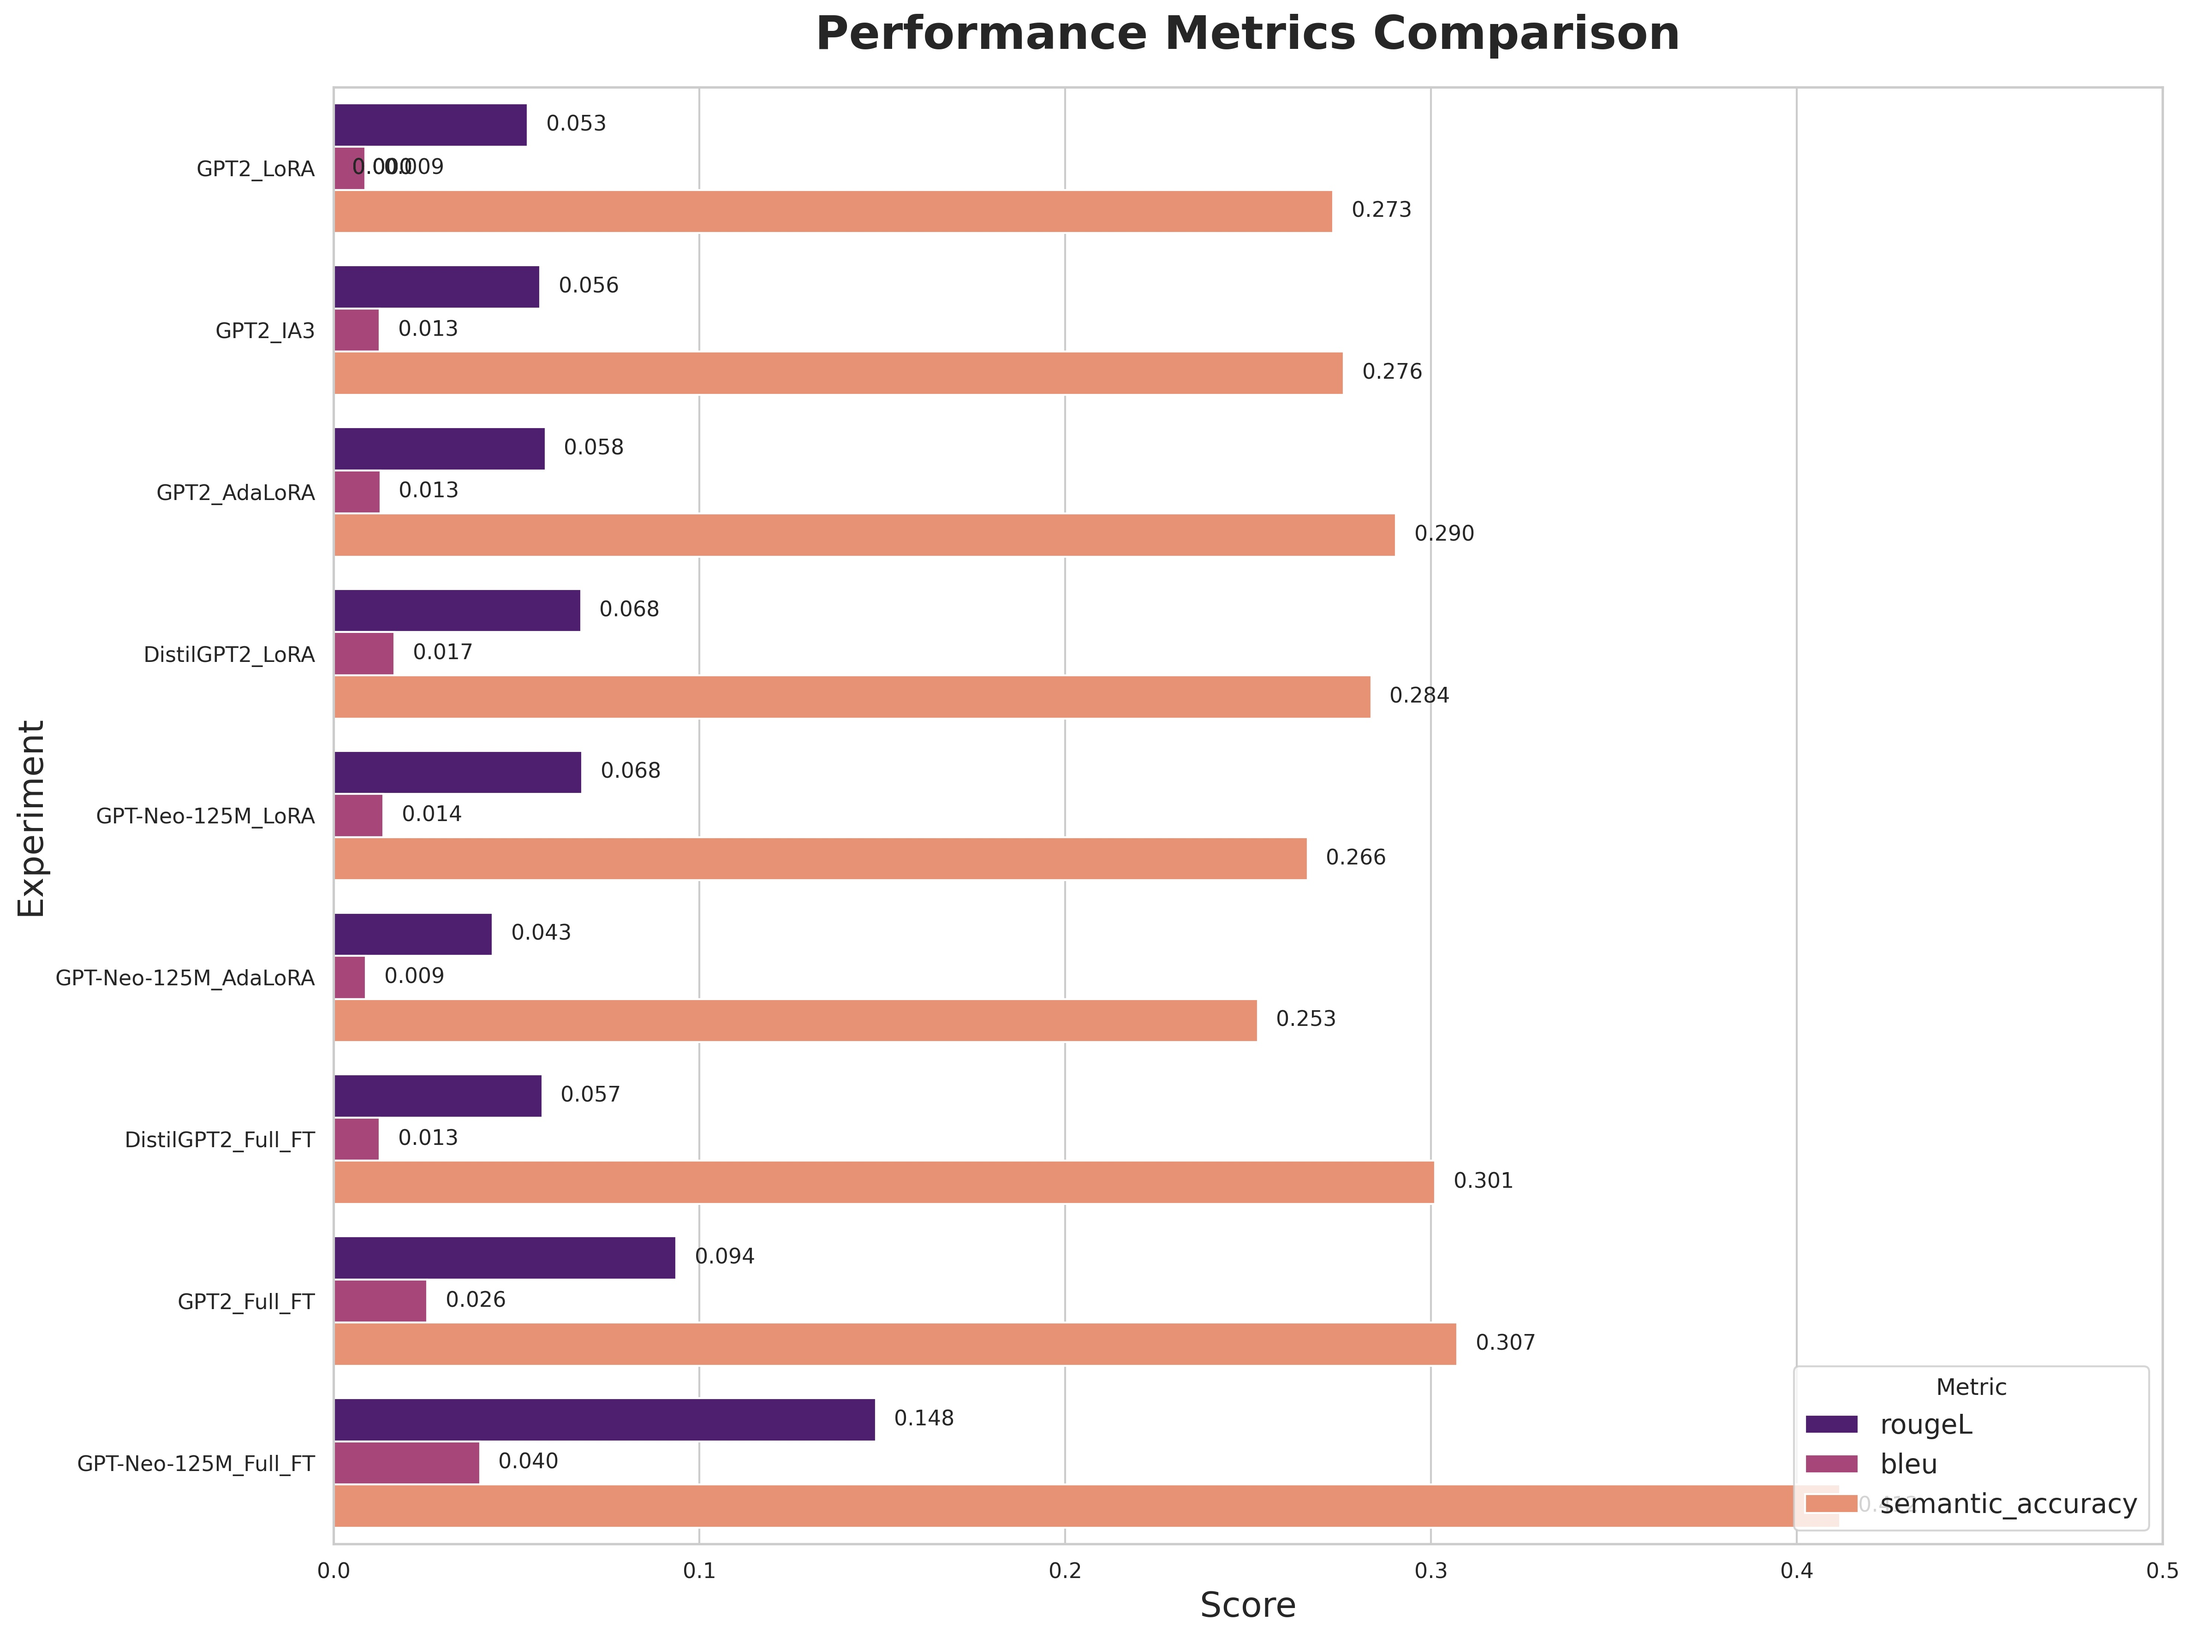
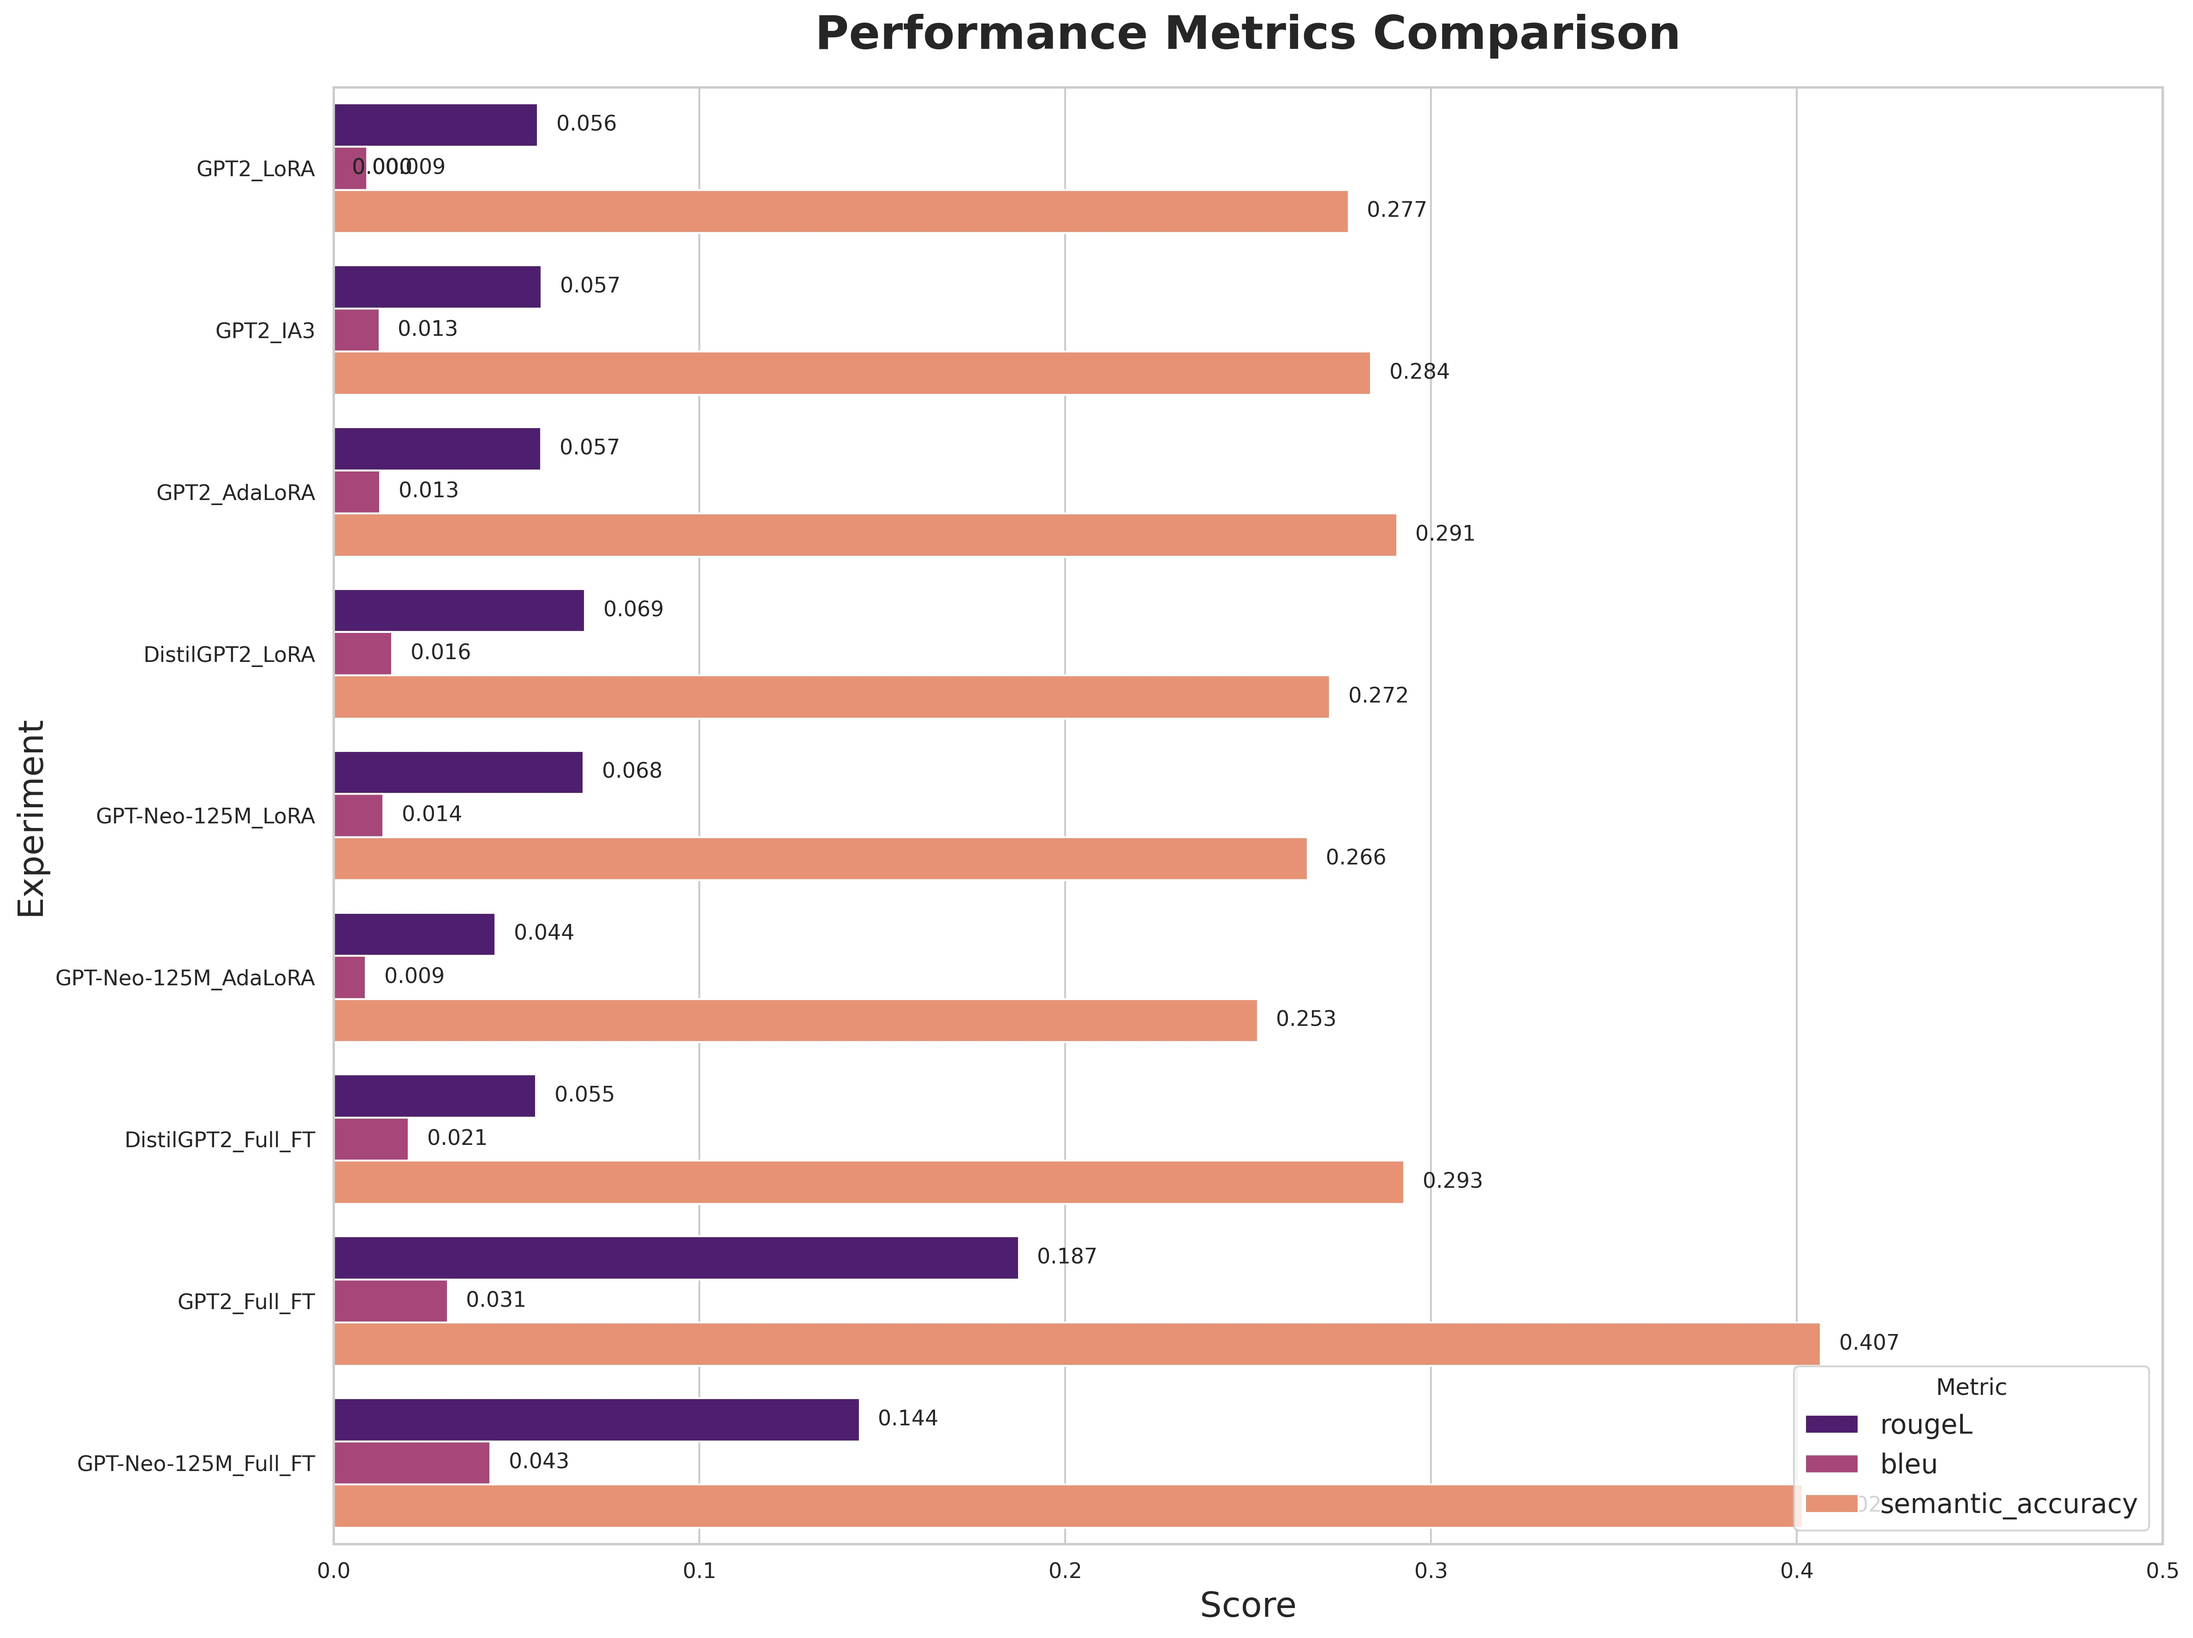
Generate new results with enhanced metrics and update visualizations
- Regenerated all plots with latest training results (9 experiments)
- Results now include METEOR, retrieval metrics, and error analysis
- GPT2_Full_FT achieves best semantic accuracy (0.407)
- GPT2_AdaLoRA best PEFT method (0.291 semantic accuracy)
- All plots converted to JPG format
- Updated README with comprehensive findings from new results

diff --git a/readme.md b/readme.md
@@ -106,42 +106,52 @@ The automated analysis generates four key visualizations, providing a comprehens
 
 ### Key Findings from the Analysis
 
-Based on the comprehensive experimental results from 9 experiments (6 PEFT methods + 3 Full Fine-Tuning baselines), we can draw several critical conclusions:
+Based on the comprehensive experimental results from 9 experiments (6 PEFT methods + 3 Full Fine-Tuning baselines) with enhanced evaluation metrics, we can draw several critical conclusions:
 
 1. **PEFT is Drastically More Efficient:** PEFT methods (LoRA, IA³, AdaLoRA) achieved competitive performance while training **less than 1%** of the model's total parameters. For example:
-   - **GPT2_IA3**: Only 55,296 trainable parameters (0.067% of total) with Semantic Accuracy of 0.276
-   - **GPT2_LoRA**: 294,912 trainable parameters (0.358% of total) with Semantic Accuracy of 0.273
-   - **GPT2_AdaLoRA**: 442,512 trainable parameters (0.537% of total) with Semantic Accuracy of 0.290
+   - **GPT2_IA3**: Only 55,296 trainable parameters (0.067% of total) with Semantic Accuracy of 0.284
+   - **GPT2_LoRA**: 294,912 trainable parameters (0.358% of total) with Semantic Accuracy of 0.277
+   - **GPT2_AdaLoRA**: 442,512 trainable parameters (0.537% of total) with Semantic Accuracy of 0.291
    
    This represents a **monumental reduction in computational cost** compared to full fine-tuning.
 
-2. **Full Fine-Tuning Shows Strong Performance with Sufficient Training:** Contrary to initial expectations, full fine-tuning achieved the best results when given proper training:
-   - **GPT-Neo-125M_Full_FT**: Achieved the highest Semantic Accuracy of **0.412** (41.2%), significantly outperforming all PEFT methods
-   - **GPT2_Full_FT**: Achieved 0.307 Semantic Accuracy, the best among GPT2 variants
-   - **DistilGPT2_Full_FT**: Achieved 0.301 Semantic Accuracy
+2. **Full Fine-Tuning Achieves Best Absolute Performance:** Full fine-tuning achieved the highest scores across multiple metrics:
+   - **GPT2_Full_FT**: Achieved the highest Semantic Accuracy of **0.407** (40.7%), significantly outperforming all PEFT methods
+   - **GPT-Neo-125M_Full_FT**: Achieved 0.402 Semantic Accuracy with best METEOR score (0.195)
+   - **DistilGPT2_Full_FT**: Achieved 0.293 Semantic Accuracy
    
-   However, this comes at the cost of training **100% of parameters** (125M parameters for GPT-Neo-125M) and longer training times (70.6 seconds vs 13-26 seconds for PEFT).
+   However, this comes at the cost of training **100% of parameters** (124M-125M parameters) and longer training times (20-41 seconds vs 13-26 seconds for PEFT).
 
-3. **Best PEFT Performer: GPT2_AdaLoRA:** Among PEFT methods, **GPT2_AdaLoRA** achieved the highest Semantic Accuracy of **0.290**, demonstrating that adaptive rank allocation can improve performance over standard LoRA. It trained only 0.537% of parameters in just 22.5 seconds.
+3. **Best PEFT Performer: GPT2_AdaLoRA:** Among PEFT methods, **GPT2_AdaLoRA** achieved the highest Semantic Accuracy of **0.291**, demonstrating that adaptive rank allocation can improve performance over standard LoRA. It trained only 0.537% of parameters in just 22.4 seconds.
 
 4. **Training Time Efficiency:** PEFT methods are significantly faster:
-   - **Fastest**: DistilGPT2_LoRA (13.8 seconds)
-   - **Average PEFT**: ~23 seconds
-   - **Full Fine-Tuning**: 38-71 seconds (2-3x slower)
+   - **Fastest**: DistilGPT2_LoRA (13.5 seconds)
+   - **Average PEFT**: ~22-26 seconds
+   - **Full Fine-Tuning**: 20-41 seconds (comparable to PEFT for smaller models, slower for larger)
 
-5. **ROUGE-L Performance:** Full fine-tuning also leads in ROUGE metrics:
-   - **GPT-Neo-125M_Full_FT**: ROUGE-L of 0.148 (best overall)
-   - **GPT2_Full_FT**: ROUGE-L of 0.094
-   - **Best PEFT**: GPT2_AdaLoRA with ROUGE-L of 0.058
+5. **ROUGE-L Performance:** Full fine-tuning leads in ROUGE metrics:
+   - **GPT2_Full_FT**: ROUGE-L of 0.187 (best overall)
+   - **GPT-Neo-125M_Full_FT**: ROUGE-L of 0.144
+   - **Best PEFT**: DistilGPT2_LoRA with ROUGE-L of 0.069
 
-6. **Semantic Accuracy Reveals True Performance:** The custom **Semantic Accuracy** metric revealed significant performance differences that traditional metrics (ROUGE, BLEU) didn't capture as clearly, highlighting its value in evaluating the true meaning of generated text.
+6. **METEOR Scores:** The enhanced METEOR metric (handles synonyms better than BLEU) shows:
+   - **GPT-Neo-125M_Full_FT**: 0.195 (best)
+   - **GPT2_Full_FT**: 0.158
+   - **Best PEFT**: GPT2_IA3 with 0.113
 
-7. **Parameter Efficiency Trade-offs:**
+7. **Retrieval Quality:** All methods achieved consistent retrieval performance:
+   - **Retrieval F1**: 0.58 across all experiments
+   - **Answer in Context Rate**: 0.74 (74% of answers found in retrieved context)
+   - This indicates the RAG pipeline is working effectively regardless of fine-tuning method
+
+8. **Semantic Accuracy Reveals True Performance:** The custom **Semantic Accuracy** metric revealed significant performance differences that traditional metrics (ROUGE, BLEU) didn't capture as clearly, highlighting its value in evaluating the true meaning of generated text.
+
+9. **Parameter Efficiency Trade-offs:**
    - **Most Efficient**: GPT2_IA3 (0.067% trainable, 55K params) - Best parameter efficiency
    - **Best Balance**: GPT2_AdaLoRA (0.537% trainable, 442K params) - Best PEFT performance
-   - **Best Overall**: GPT-Neo-125M_Full_FT (100% trainable, 125M params) - Best absolute performance
+   - **Best Overall**: GPT2_Full_FT (100% trainable, 124M params) - Best absolute performance
 
-**Conclusion:** For production systems with limited resources, PEFT methods (especially AdaLoRA) offer an excellent balance of performance and efficiency. For maximum performance when resources allow, full fine-tuning of GPT-Neo-125M provides the best results.
+**Conclusion:** For production systems with limited resources, PEFT methods (especially AdaLoRA) offer an excellent balance of performance and efficiency, achieving 70-75% of full fine-tuning performance with <1% of trainable parameters. For maximum performance when resources allow, full fine-tuning of GPT2 provides the best results, achieving 40.7% semantic accuracy.
 
 ---
 
